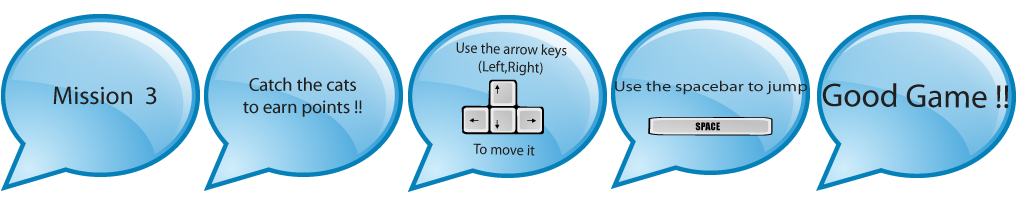
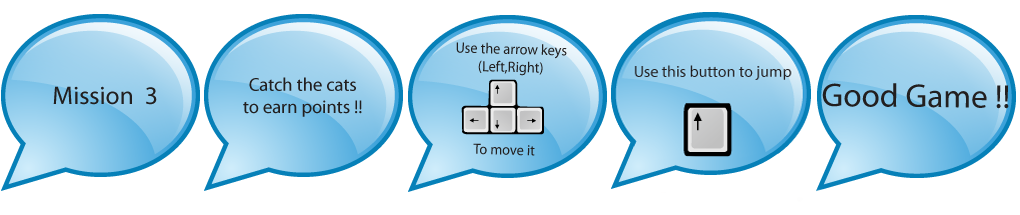
Asteróide para vencer 100 pontos, e tirei o button espaço e coloque z para atirar e no Fall para pular a seta pra cima.

diff --git a/Código/js/game3/js/game_3_player.js b/Código/js/game3/js/game_3_player.js
@@ -1,4 +1,5 @@
-function Player(file, size_x, size_y, position_x, position_y, velocity_y)
+function Player3(file, size_x, size_y, position_x, position_y, velocity_y)
+
 {//abre spencer
 
     this.image = new Image();
@@ -6,7 +7,7 @@ function Player(file, size_x, size_y, position_x, position_y, velocity_y)
         
     this.visible = true;
 	
-	this.ponints = 0;
+	this.pontos = 0;
                 
     this.position_x_dst = position_x; 
     this.position_y_dst = position_y;
@@ -23,12 +24,12 @@ function Player(file, size_x, size_y, position_x, position_y, velocity_y)
     this.position_x_src = 0; 
     this.position_y_src = 0;
     
-    this.velocity_x = 5;
+    this.velocity_x = 10;//velocidade pra ir pro lado
     this.velocity_y = 1;   
     
     this.gravity_x = 0;
     
-    this.gravity_y = 2000; //velocidade ao cair 
+    this.gravity_y = 0.75;//gravidade ao cair
         
     this.jump_move = false;
 	
@@ -36,7 +37,7 @@ function Player(file, size_x, size_y, position_x, position_y, velocity_y)
 	
 	this.can_jump = false;
 	
-	this.jumping_velocity_y = -2000;  //velocidade do pulo   
+	this.jumping_velocity_y = -50;    
     
     this.current_frame = 0;
         
@@ -74,6 +75,31 @@ function Player(file, size_x, size_y, position_x, position_y, velocity_y)
         
         this.move();
       
+	
+	/*
+	this.jump=function()
+    {//abre jump
+    
+		if(this.jump_move)
+		{
+		this.jumping = true;
+		
+		this.jumping_velocity_y;
+		}
+		
+    }//fecha jump
+                   
+    if(this.up == true)
+     {
+        
+     this.jump();
+                
+     this.move();
+        
+    //this.fall();
+        
+     }
+     */
      
      this.keepInScreen();
         
@@ -113,10 +139,10 @@ function Player(file, size_x, size_y, position_x, position_y, velocity_y)
         }
         
        //saida por baixo
-       if(this.position_y_dst > SCREENHEIGHT - this.size_y_dst*this.scale_y)//o player passar do canvas e sumir
-       {
-             this.position_y_dst = SCREENHEIGHT - this.size_y_dst*this.scale_y;
-       }
+       // if(this.position_y_dst > SCREENHEIGHT - this.size_y_dst*this.scale_y)
+       // {
+       //       this.position_y_dst = SCREENHEIGHT - this.size_y_dst*this.scale_y;
+       // }
 	   
     }//fecha keep
 
@@ -168,13 +194,13 @@ function Player(file, size_x, size_y, position_x, position_y, velocity_y)
                         this.left = true;
                 }
         
-                if(key.keyCode == 32)
+                if(key.keyCode == 38)
                 {
                         this.up = true;
                         if(this.can_jump)
                         {
-                        	this.can_jump = false; //Quando o player collide com obstaculo pode apetar o can_jump novamente
-                        	this.velocity_y = -100;
+                        	this.can_jump = false;
+                        	this.velocity_y = -17;
                         }
                 }
                 else if(key.keyCode == 40)

diff --git a/Código/js/game3/js/game_3_scene_level_1.js b/Código/js/game3/js/game_3_scene_level_1.js
@@ -3,7 +3,7 @@ function Game3SceneLevel1()
 	this.reset=function()
 	{
 		//file, size_x, size_y, position_x, position_y, velocity_y
-		this.player = new Player ("imgs/game_3/raq.png", 60, 118, ((SCREENWIDTH-74)/2)-40, 0);
+		this.player = new Player3 ("imgs/game_3/raq.png", 60, 118, ((SCREENWIDTH-74)/2)-40, 0);
 		
 		this.fundo = new Fundo_move ("imgs/game_3/fundo_move.png",1200, 800, 0, 0);
 		this.fundo_front = new Fundo3 ("imgs/game_3/fundo_front.png",600,800);
@@ -56,11 +56,11 @@ function Game3SceneLevel1()
 		{
 		 
         							//(file, size_x, size_y, pos_x, pos_y, vel_x, vel_y)
-        var obstaculo1 = new Obstaculo("imgs/game_3/obstaculo1.png", 150, 30, 50, 120, 0, 3);
-        var obstaculo2 = new Obstaculo("imgs/game_3/obstaculo1.png", 150, 30, 300, 240, 0, 3);
-        var obstaculo3 = new Obstaculo("imgs/game_3/obstaculo1.png", 150, 30, 150, 360, 0, 3);
-		var obstaculo4 = new Obstaculo("imgs/game_3/obstaculo1.png", 150, 30, 200, 480, 0, 3);
-		var obstaculo5 = new Obstaculo("imgs/game_3/obstaculo1.png", 150, 30, 500, 600, 0, 3);
+        var obstaculo1 = new Obstaculo("imgs/game_3/obstaculo1.png", 150, 30, 50, 120, 0, 4);
+        var obstaculo2 = new Obstaculo("imgs/game_3/obstaculo1.png", 150, 30, 300, 240, 0, 4);
+        var obstaculo3 = new Obstaculo("imgs/game_3/obstaculo1.png", 150, 30, 150, 360, 0, 4);
+		var obstaculo4 = new Obstaculo("imgs/game_3/obstaculo1.png", 150, 30, 200, 480, 0, 4);
+		var obstaculo5 = new Obstaculo("imgs/game_3/obstaculo1.png", 150, 30, 500, 600, 0, 4);
 		
 		this.obstaculos_list.push(obstaculo1);
 		this.obstaculos_list.push(obstaculo2);	
@@ -127,7 +127,7 @@ function Game3SceneLevel1()
                 this.obstaculos_list[i].position_x,
                 this.obstaculos_list[i].position_y,
                 this.obstaculos_list[i].size_x,
-                this.obstaculos_list[i].size_y-130 //collide só nos pés do player
+                this.obstaculos_list[i].size_y-135 //collide só nos pés do player
        		))
        		{
         		//alert("oioi");
@@ -236,7 +236,7 @@ function Game3SceneLevel1()
 		}		
 		
 		//venceu no fall
-	   	if(this.player.points >= 200) //Pontuação para vencer 200 pontos
+	   	if(this.player.points >= 500) //Pontuação para vencer 200 pontos
 		{
 			game3.currentGameScene = game3.GAMESCENE.THEEND;
 			this.music_fundo.pause();
@@ -310,11 +310,13 @@ function Game3SceneLevel1()
     
     this.key_down=function(key)
     {
+	console.log("gsggggggggggggggggggggg")
         this.player.key_down(key);
     }
     
     this.key_up=function(key)
     {
+	console.log("gsggggggggggggggggggggg")
         this.player.key_up(key);
     }
 

diff --git a/Código/js/game4/js/game_4_shoot.js b/Código/js/game4/js/game_4_shoot.js
@@ -22,8 +22,8 @@ function Shoot(player4_position_x, player4_position_y, player4_rotation)
     this.size_y = 18;
     this.position_x = player4_position_x;
     this.position_y = player4_position_y;
-    this.velocity_x = Math.cos(this.degreesToRadians(player4_rotation)) * 5;
-    this.velocity_y = Math.sin(this.degreesToRadians(player4_rotation)) * 5;
+    this.velocity_x = Math.cos(this.degreesToRadians(player4_rotation)) * 10;
+    this.velocity_y = Math.sin(this.degreesToRadians(player4_rotation)) * 10;
     
     console.log(this.velocity_x);
     

diff --git a/Código/js/game4/js/game_4_player.js b/Código/js/game4/js/game_4_player.js
@@ -290,7 +290,7 @@ function Player4(file, size_x, size_y, position_x, position_y)
     			this.down = true;
     		}
     		
-    		if(key.keyCode == 32)
+    		if(key.keyCode == 90)//shoot
     		{
     			if(this.space_released)
     			{
@@ -322,7 +322,7 @@ function Player4(file, size_x, size_y, position_x, position_y)
     			this.down = false;
     		}
     		
-    		if(key.keyCode == 32)
+    		if(key.keyCode == 90)//shoots
     		{
     			this.space_released = true;
     		}
